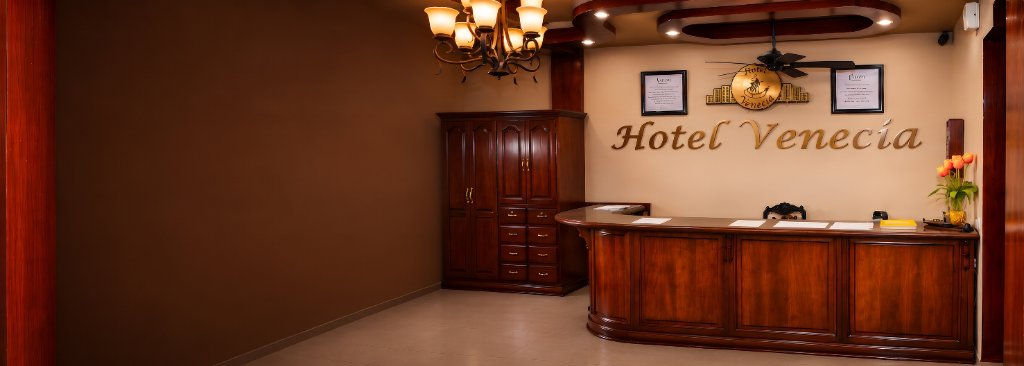
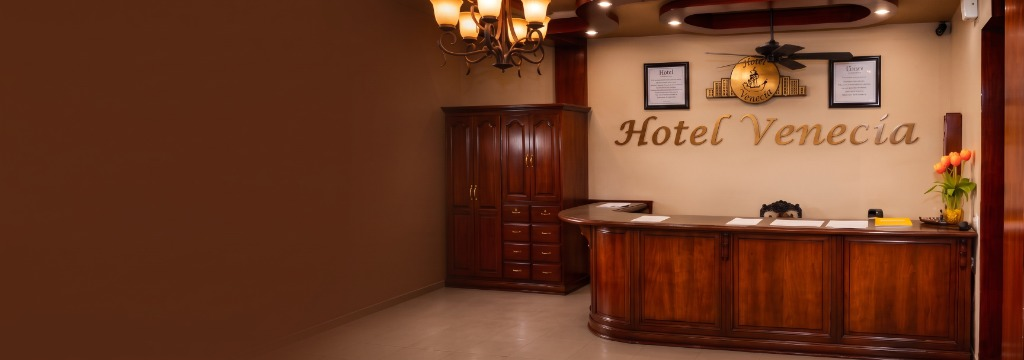
chore(media): sustituir imagen de inicio

diff --git a/index.html b/index.html
@@ -19,7 +19,7 @@
   <link
     href="https://fonts.googleapis.com/css2?family=Fraunces:opsz,wght@9..144,500;9..144,700&family=Inter:wght@400;500;600&display=swap"
     rel="stylesheet">
-  <link rel="preload" as="image" href="assets/img/recepcion-hero.jpg?v=20261120p">
+  <link rel="preload" as="image" href="assets/img/recepcion-hero.jpg?v=20261120s">
   <link rel="stylesheet" href="css/styles.css?v=20261120q">
   <style>
     /* Galería deslizante editorial (Carrusel horizontal con vista previa lateral) */
@@ -160,7 +160,7 @@
     <!-- ===== Portada Editorial ===== -->
     <section class="hero" id="inicio" aria-label="Portada Hotel Plaza Venecia">
       <div class="hero__slider" id="hero-slider">
-        <div class="hero__slide is-active" style="background-image:url('assets/img/recepcion-hero.jpg?v=20261120p')"></div>
+        <div class="hero__slide is-active" style="background-image:url('assets/img/recepcion-hero.jpg?v=20261120s')"></div>
         <div class="hero__slide" style="background-image:url('assets/img/habitacion-suite.jpg?v=20261120a')"></div>
         <div class="hero__slide" style="background-image:url('assets/img/bar-venetto.jpg?v=20261120h')"></div>
       </div>
